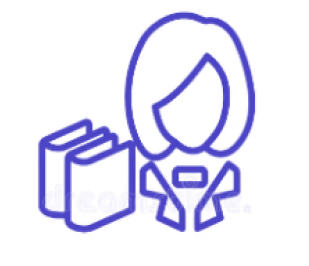
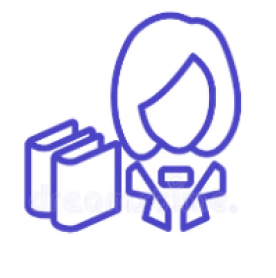
adjust librian-img, finish role

Changed region(s): [[0.087, 0.0301, 0.8986, 0.9023]]

diff --git a/Role/styles.css b/Role/styles.css
@@ -22,12 +22,41 @@ body {
 
 .card {
     background-color: white;
-    border-radius: 15px;
-    box-shadow: 0 4px 8px rgba(0, 0, 0, 0.1);
-    padding: 20px;
-    width: 250px;
+    border-radius: 30px;
+    box-shadow: 0 8px 32px rgba(0, 0, 0, 0.3);
+    padding: 40px;
+    width: 600px;
+    height: 500px;
     text-align: center;
-    transition: transform 0.3s ease;
+    transition: transform 0.3s ease, width 0.3s ease, height 0.3s ease;
+}
+
+@media (max-width: 1200px) {
+    .card {
+        width: 280px;
+        height: 380px;
+    }
+}
+
+@media (max-width: 992px) {
+    .card {
+        width: 260px;
+        height: 360px;
+    }
+}
+
+@media (max-width: 768px) {
+    .card {
+        width: 240px;
+        height: 340px;
+    }
+}
+
+@media (max-width: 576px) {
+    .card {
+        width: 220px;
+        height: 320px;
+    }
 }
 
 .card:hover {
@@ -35,13 +64,15 @@ body {
 }
 
 .icon img {
-    width: 80px;
+    width: 100%;
+    max-width: 300px;
     height: auto;
+    margin-bottom: 20px;
 }
 
 p {
     margin-top: 15px;
-    font-size: 18px;
+    font-size: 30px;
     font-weight: bold;
-    color: #333;
+    color: #6b63cf;
 }

diff --git a/Role/index.html b/Role/index.html
@@ -10,13 +10,13 @@
     <div class="container">
         <div class="card">
             <div class="icon">
-                <img src="img/student-image.png" alt="Sinh viên">
+                <img src="../img/student-image.png" alt="Sinh viên">
             </div>
             <p>Tài khoản Sinh viên</p>
         </div>
         <div class="card">
             <div class="icon">
-                <img src="employee-icon.png" alt="Nhân viên">
+                <img src="../img/librarian-image.png" alt="Nhân viên">
             </div>
             <p>Tài khoản Nhân viên</p>
         </div>
